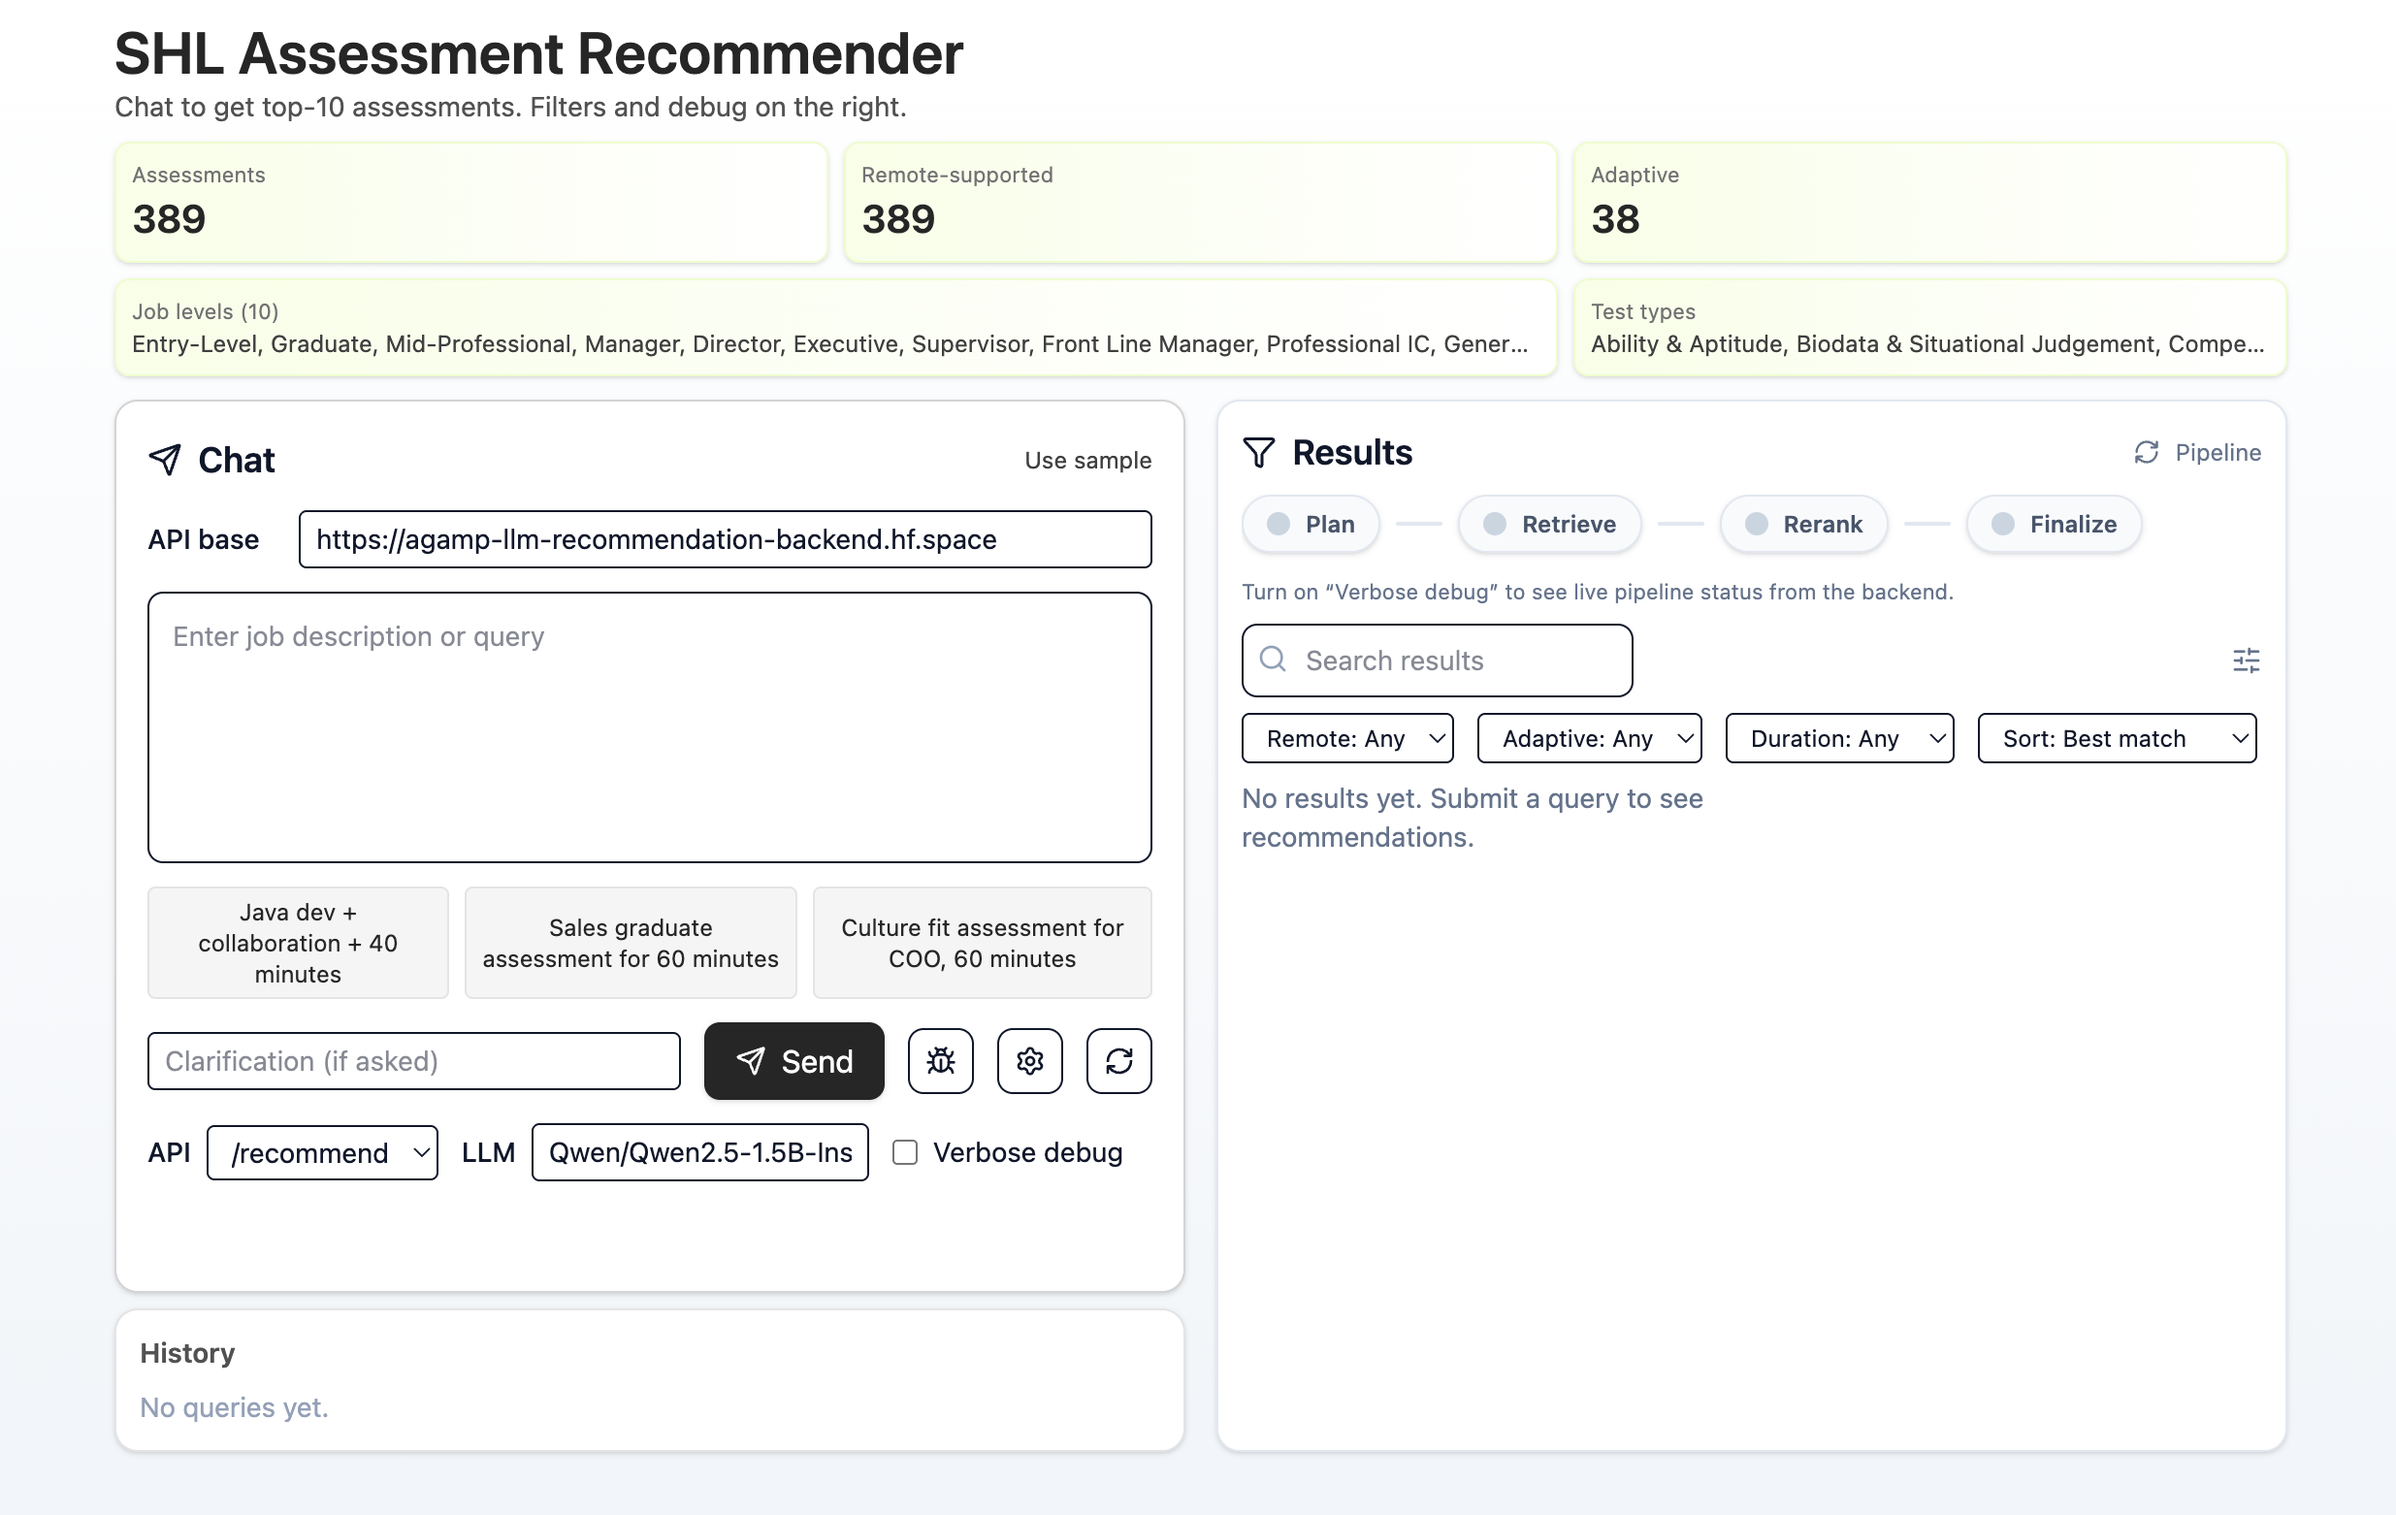
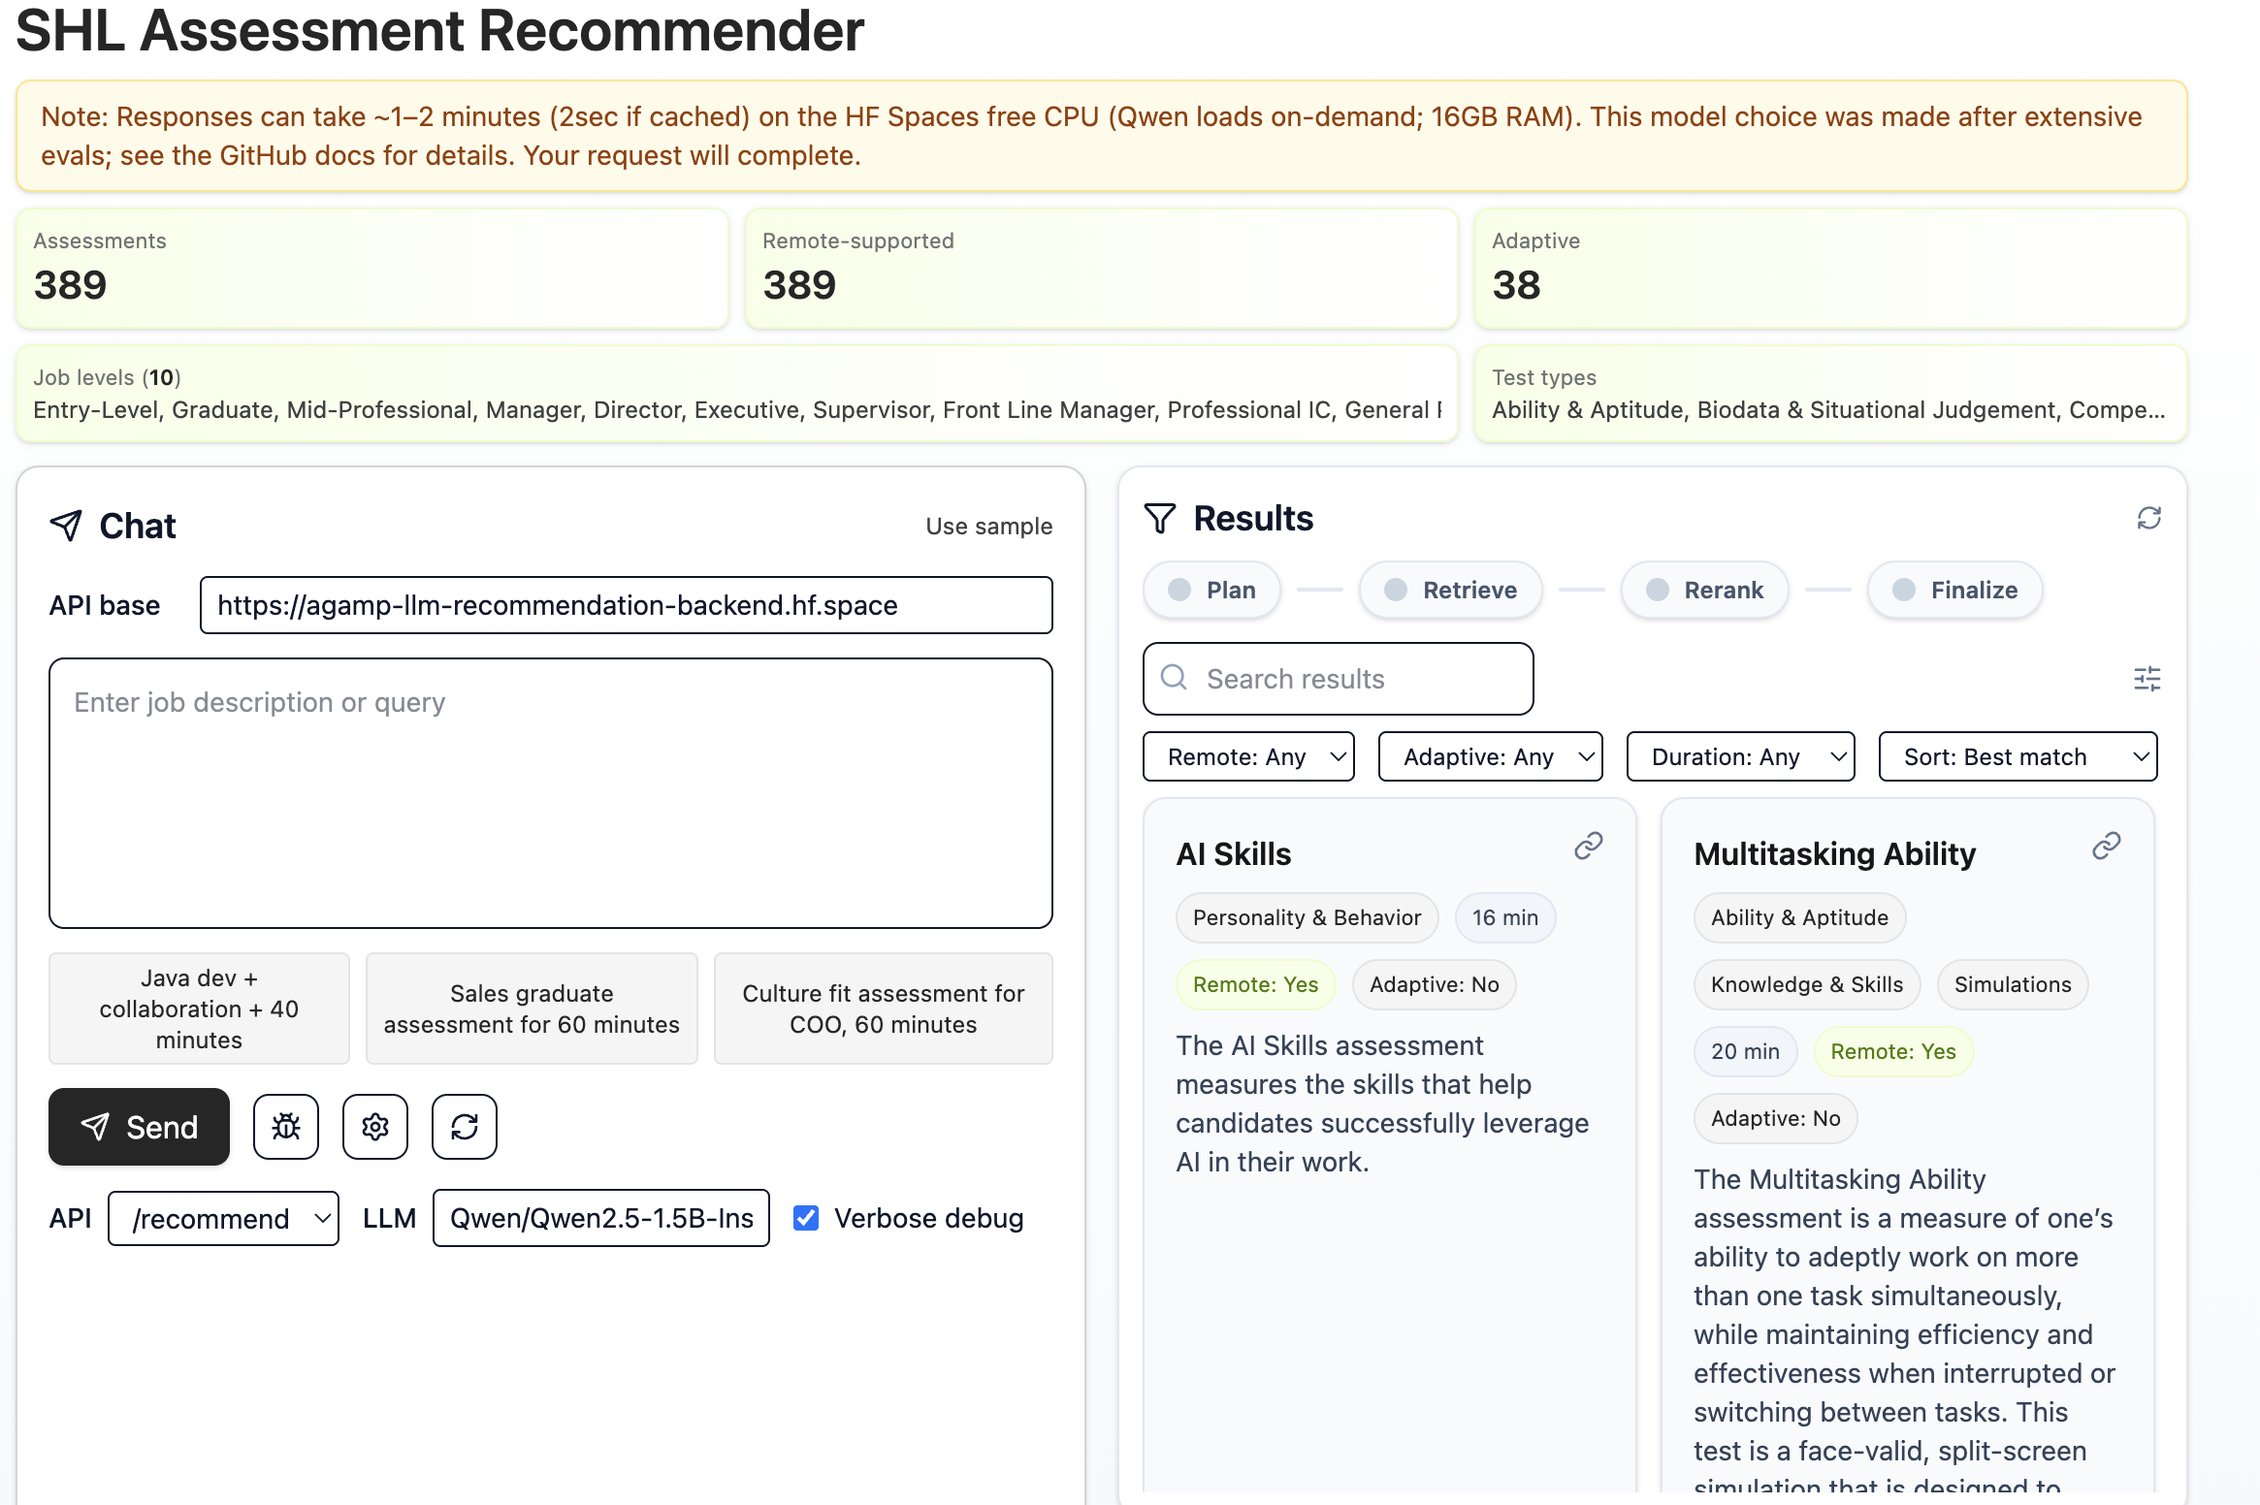
update frontend and submission script

diff --git a/frontend/src/app/page.tsx b/frontend/src/app/page.tsx
@@ -107,7 +107,6 @@ export default function Home() {
   const [verbose, setVerbose] = useLocalStorage("verbose", false);
   const [llmModel, setLlmModel] = useLocalStorage("llm_model", "Qwen/Qwen2.5-1.5B-Instruct");
   const [query, setQuery] = useState("");
-  const [clarification, setClarification] = useState("");
   const [history, setHistory] = useState<HistoryItem[]>([]);
   const [loading, setLoading] = useState(false);
   const [stats, setStats] = useState<Stats | null>(INITIAL_STATS);
@@ -220,7 +219,6 @@ export default function Home() {
     const controller = new AbortController();
     abortRef.current = controller;
     const body: any = { query, verbose };
-    if (clarification.trim()) body.clarification_answer = clarification.trim();
     if (mode === "recommend" && llmModel) body.llm_model = llmModel;
     const id = crypto.randomUUID();
     const ts = Date.now();
@@ -235,7 +233,7 @@ export default function Home() {
       );
       setActiveIndex(history.length); // new item index
       setQuery("");
-      setClarification("");
+      // no clarification field to reset
     } catch (err: any) {
       setHistory((h) => h.map((item) => (item.id === id ? { ...item, error: err.message } : item)));
     } finally {
@@ -248,7 +246,9 @@ export default function Home() {
     <div className="flex items-center justify-between mb-2">
       <div>
         <h1 className="text-3xl font-semibold text-neutral-800">SHL Assessment Recommender</h1>
-        <p className="text-sm text-neutral-600">Chat to get top-10 assessments. Filters and debug on the right.</p>
+        <div className="mt-2 rounded-lg border border-amber-200 bg-amber-50 px-3 py-2 text-sm text-amber-800 shadow-sm">
+          Note: Responses can take ~1–2 minutes (2sec if cached) on the HF Spaces free CPU (Qwen loads on-demand; 16GB RAM). This model choice was made after extensive evals; see the GitHub docs for details. Your request will complete.
+        </div>
       </div>
     </div>
   );
@@ -269,9 +269,9 @@ export default function Home() {
       </div>
       <div className="bg-gradient-to-r from-lime-50 to-white border border-lime-100 rounded-lg shadow-sm p-2 col-span-1 lg:col-span-2">
         <div className="text-[11px] text-neutral-500">
-          Job levels ({stats?.unique_job_levels ?? "—"})
+          Job levels (<span className="font-semibold text-neutral-800">{stats?.unique_job_levels ?? "—"}</span>)
         </div>
-        <div className="text-xs text-neutral-700 truncate">
+        <div className="text-xs text-neutral-700 whitespace-nowrap overflow-x-auto">
           {stats?.job_levels && stats.job_levels.length ? stats.job_levels.join(", ") : "N/A"}
         </div>
       </div>
@@ -367,12 +367,6 @@ export default function Home() {
           ))}
         </div>
         <div className="flex gap-3 items-center">
-          <input
-            className="border rounded px-2 py-1 text-sm flex-1"
-            placeholder="Clarification (if asked)"
-            value={clarification}
-            onChange={(e) => setClarification(e.target.value)}
-          />
           <button
             onClick={send}
             disabled={loading}
@@ -397,7 +391,6 @@ export default function Home() {
           <button
             onClick={() => {
               setQuery(SAMPLE_PROMPTS[0]);
-              setClarification("");
             }}
             className="p-2 border rounded-lg hover:bg-slate-100"
             title="Reset"
@@ -436,7 +429,6 @@ export default function Home() {
           </div>
           <div className="flex items-center gap-2 text-xs text-slate-500">
             <RefreshCw size={14} />
-            Pipeline
           </div>
         </div>
         <div className="flex flex-col gap-2">
